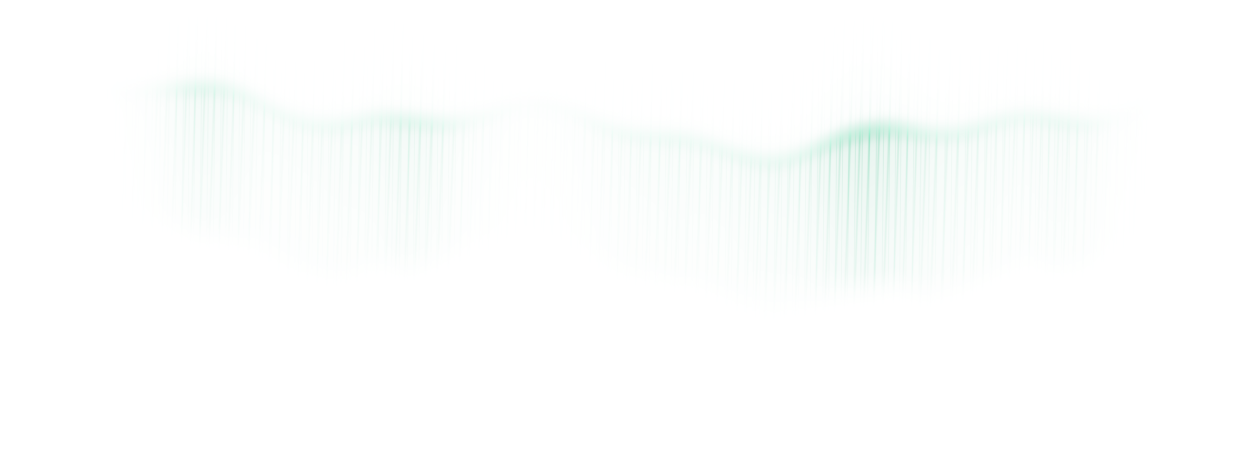
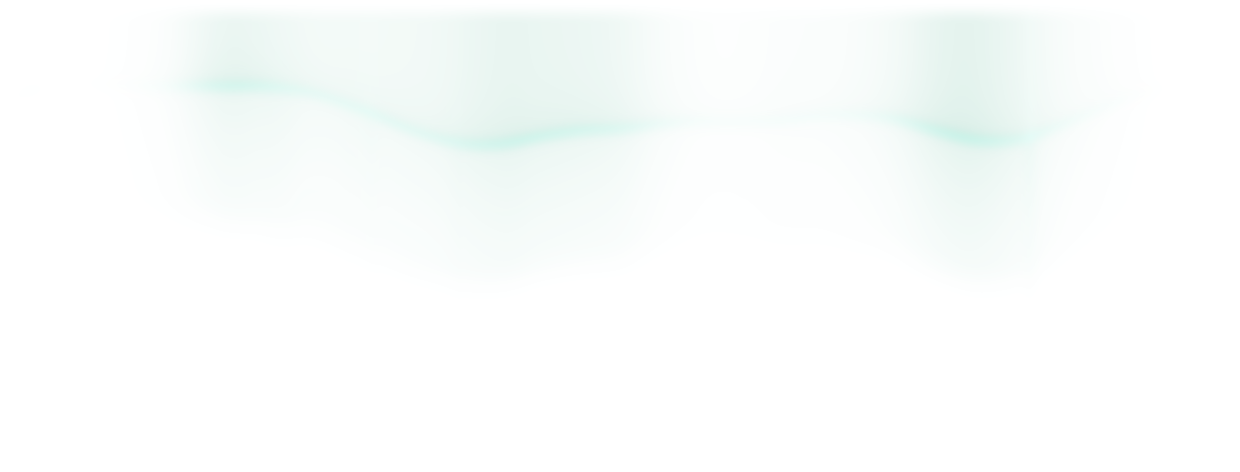
重做極光光幕材質與潮汐場景

Changed region(s): [[0.6435, 0.0297, 0.8274, 0.4746], [0.3677, 0.2373, 0.4903, 0.3263], [0.1839, 0.1483, 0.2452, 0.2076]]

diff --git a/tools/scene_bakers/stars_aurora.py b/tools/scene_bakers/stars_aurora.py
@@ -201,84 +201,83 @@ def generate_aurora_assets(out: Path) -> None:
         (0.205, 0.42, 0.86, 6201, 2.0, 0.13, 0.035),
         (0.255, 0.36, 0.76, 6301, 4.1, 0.15, 0.090),
     )
-    green = _color((72, 211, 139))
-    cyan = _color((69, 174, 184))
-    violet = _color((137, 105, 170))
+    green = _color((64, 224, 148))
+    cyan = _color((56, 185, 205))
+    violet = _color((148, 98, 185))
     for index, (crest_y, ray_length, strength, seed, phase, cyan_base, violet_base) in enumerate(curtain_specs):
-        broad = _periodic_fbm_x(position, period, seed, 4)
-        medium = _periodic_fbm_x(position, period, seed + 31, 11, 3)
-        fine = _periodic_fbm_x(position, period, seed + 53, 29, 3)
+        broad = _periodic_fbm_x(position, period, seed, 3, 3)
+        medium = _periodic_fbm_x(position, period, seed + 31, 7, 3)
+        fine_fold = _periodic_fbm_x(position, period, seed + 53, 13, 2)
+
         fold = (
-            np.sin(unit * np.pi * 2.0 + phase) * 0.038
-            + np.sin(unit * np.pi * 6.0 + phase * 0.7) * 0.025
-            + np.sin(unit * np.pi * 14.0 - phase * 0.4) * 0.013
-            + (broad - 0.5) * 0.075
+            np.sin(unit * np.pi * 2.0 + phase) * 0.045
+            + np.sin(unit * np.pi * 4.0 - phase * 0.8) * 0.028
+            + np.sin(unit * np.pi * 8.0 + phase * 1.3) * 0.015
+            + (broad - 0.5) * 0.080
+            + (medium - 0.5) * 0.035
         )
         crest = height * (crest_y + fold)[None, :]
         distance = y - crest
         positive = np.maximum(distance, 0.0)
         negative = np.maximum(-distance, 0.0)
-        length = height * (
-            ray_length + (broad - 0.5) * 0.13 + (medium - 0.5) * 0.055
+        curtain_length = height * (
+            ray_length + (broad - 0.5) * 0.12 + (medium - 0.5) * 0.05
         )[None, :]
 
-        gate = np.clip((distance + height * 0.012) / (height * 0.035), 0.0, 1.0)
+        crest_glow = np.exp(-((distance) / (height * (0.012 + index * 0.003))) ** 2)
+        upper_fade = np.exp(-negative / (height * 0.045))
+
+        gate = np.clip((distance + height * 0.010) / (height * 0.030), 0.0, 1.0)
         gate = gate * gate * (3.0 - 2.0 * gate)
-        ending = np.clip((length - positive) / (height * 0.10), 0.0, 1.0)
-        ending = ending * ending * (3.0 - 2.0 * ending)
-        cycles = 79 + index * 18
-        thread_phase = (
-            unit[None, :] * np.pi * 2.0 * cycles
-            + (medium[None, :] - 0.5) * 8.0
-            + distance * (0.0085 + index * 0.0012)
-        )
-        threads = (0.5 + 0.5 * np.cos(thread_phase)) ** 10
-        fine_threads = (
-            0.5
-            + 0.5 * np.cos(
-                unit[None, :] * np.pi * 2.0 * (cycles + 53)
-                - (fine[None, :] - 0.5) * 10.0
-                + distance * 0.005
-                + 1.7
-            )
-        ) ** 14
-        striation = 0.15 + threads * 0.51 + fine_threads * 0.34
-        presence = np.clip((broad - 0.17) / 0.69, 0.0, 1.0)[None, :]
-        fold_face = (
-            0.38
-            + 0.62 * (0.5 + 0.5 * np.sin(unit * np.pi * 10.0 + phase)) ** 2
-        )[None, :]
+        veil_decay = np.exp(-positive / (curtain_length * 0.72))
+        veil_cutoff = np.clip((curtain_length - positive) / (height * 0.12), 0.0, 1.0)
+        veil_cutoff = veil_cutoff * veil_cutoff * (3.0 - 2.0 * veil_cutoff)
+        veil = veil_decay * veil_cutoff * (0.45 + medium[None, :] * 0.55)
 
-        edge = np.exp(-(distance / (height * (0.017 + index * 0.002))) ** 2)
-        lower_rays = gate * np.exp(-positive / (length * 0.70)) * ending * striation
-        upper_rays = (1.0 - gate) * np.exp(-negative / (height * 0.085)) * striation
-        veil = gate * np.exp(-positive / (length * 0.92)) * ending
-        veil *= 0.35 + medium[None, :] * 0.65
-        alpha = strength * presence * fold_face * (
-            edge * 0.31 + lower_rays * 0.74 + upper_rays * 0.20 + veil * 0.12
+        fold_face = (
+            0.40
+            + 0.60 * (0.5 + 0.5 * np.sin(unit * np.pi * 6.0 + phase * 1.4 + (broad - 0.5) * 2.5)) ** 2
+        )[None, :]
+        presence = np.clip((broad - 0.12) / 0.76, 0.0, 1.0)[None, :]
+
+        fil_pos = position + np.sin(unit * np.pi * 8.0 + phase) * 100.0
+        fil_noise1 = _periodic_fbm_x(fil_pos, period, seed + 101, 19, 3)
+        fil_noise2 = _periodic_fbm_x(position, period, seed + 203, 31, 2)
+        fil_raw = np.clip((fil_noise1 * 0.6 + fil_noise2 * 0.4 - 0.48) / 0.36, 0.0, 1.0)
+        filaments = (fil_raw ** 3.5)[None, :]
+        fil_len_var = 0.4 + 0.6 * (0.5 + 0.5 * np.sin(unit[None, :] * np.pi * 12.0 + (fine_fold[None, :] - 0.5) * 4.0))
+        filaments_attenuated = filaments * np.exp(-positive / (curtain_length * (0.25 + 0.55 * fil_len_var))) * gate
+
+        alpha_curtain = (
+            crest_glow * 0.38
+            + (1.0 - gate) * upper_fade * 0.25
+            + veil * 0.52
+            + filaments_attenuated * 0.30
         )
+        alpha = strength * presence * fold_face * alpha_curtain
         alpha *= np.clip((height * 0.70 - y) / (height * 0.13), 0.0, 1.0)
         alpha = feather_alpha(np.asarray(np.clip(alpha, 0.0, 0.88), np.float32), padding, 48)
 
-        ray_amount = np.clip(positive / np.maximum(length, 1.0), 0.0, 1.0)
-        cyan_amount = np.clip(cyan_base + fine_threads * 0.08 + (1.0 - ray_amount) * 0.035, 0.0, 0.24)
-        violet_amount = np.clip(
-            violet_base * (0.25 + ray_amount * 0.75) * (0.45 + threads * 0.55),
-            0.0,
-            0.12,
-        )
-        green_amount = 1.0 - cyan_amount - violet_amount
+        rel_y = np.clip(positive / np.maximum(curtain_length, 1.0), 0.0, 1.0)
+        crest_zone = np.clip(1.0 - np.abs(distance) / (height * 0.035), 0.0, 1.0)
+
+        cyan_amount = np.clip(cyan_base + 0.14 * rel_y + filaments * 0.08, 0.0, 0.38)
+        violet_amount = np.clip(violet_base * (1.1 - rel_y * 0.8) + crest_zone * 0.12, 0.0, 0.30)
+        green_amount = np.maximum(0.0, 1.0 - cyan_amount - violet_amount)
+
         rgb = (
             green[None, None, :] * green_amount[..., None]
             + cyan[None, None, :] * cyan_amount[..., None]
             + violet[None, None, :] * violet_amount[..., None]
         )
-        brightness = 0.78 + striation * 0.27 + edge * 0.13
+        brightness = 0.82 + crest_glow * 0.30 + filaments * 0.18
         rgb *= brightness[..., None]
+
         # The runtime wraps this exact view-width span, so close its discrete seam.
         alpha[:, padding + period - 1] = alpha[:, padding]
         rgb[:, padding + period - 1] = rgb[:, padding]
         save_rgba(out / f"aurora_curtain_{index}.png", _rgba(rgb, alpha), True)
+
 
 
 def generate_stars_aurora_assets(out: Path) -> None:

diff --git a/deskbar/ui/scene_weather_museum.py b/deskbar/ui/scene_weather_museum.py
@@ -10,10 +10,16 @@ Includes:
 from __future__ import annotations
 
 import math
+from pathlib import Path
+
 import pygame
 
 from deskbar.ui.scene_common import hash_unit
+from deskbar.ui.scene_assets import SceneAssets, TintRequest
 from deskbar.ui.scene_runtime import SceneFrame
+
+
+SCENE_ASSET_DIR = Path(__file__).resolve().parent.parent / "assets" / "scenes"
 
 
 class GlassRainRenderer:
@@ -325,96 +331,42 @@ class ReverseLightningRenderer:
 
 
 class TidalAuroraRenderer:
-    """Cyan-violet tidal aurora ribbons, flowing halo, and smooth curtains renderer."""
+    """Blue-violet variant of the baked, non-uniform aurora curtains.
 
-    __slots__ = ("_closed", "_overlay")
+    The original implementation tried to approximate volumetric light with
+    runtime polygons.  Pygame's hard alpha edges made those polygons read as
+    coloured ribbons.  The approved Aurora scene already owns a purpose-baked
+    soft light field, so this variant reuses that texture and changes its
+    colour, timing and layering into a slower tidal current.
+    """
+
+    __slots__ = ("_assets",)
 
     def __init__(self) -> None:
-        self._closed = False
-        self._overlay: pygame.Surface | None = None
+        self._assets = SceneAssets(SCENE_ASSET_DIR)
 
     @property
     def decoded_bytes(self) -> int:
-        if self._closed or self._overlay is None:
-            return 0
-        return self._overlay.get_width() * self._overlay.get_height() * 4
+        return self._assets.decoded_bytes
 
     def render(self, panel: pygame.Surface, frame: SceneFrame) -> None:
-        if self._closed:
-            return
-        w, h = panel.get_size()
-        if self._overlay is None or self._overlay.get_size() != (w, h):
-            self._overlay = pygame.Surface((w, h), pygame.SRCALPHA)
-
-        # Base background (deep violet cyan space)
-        panel.fill((10, 18, 36))
-        self._overlay.fill((0, 0, 0, 0))
-
-        seed = frame.day_seed
-        t = frame.t
-
-        # 1. Twinkling background stars (30 stars)
-        for s in range(30):
-            sx = int(hash_unit(s, seed, 91) * w)
-            sy = int(hash_unit(s, seed, 93) * (h * 0.7))
-            twinkle = 0.5 + 0.5 * math.sin(t * 1.5 + s * 1.3)
-            star_alpha = int(50 + twinkle * 150)
-            pygame.draw.circle(panel, (190, 220, 210, star_alpha), (sx, sy), 1)
-
-        # 2. Ambient flowing aurora halo in upper sky (流動 halo)
-        for halo_idx in range(3):
-            halo_y = h * (0.18 + halo_idx * 0.12) + math.sin(t * 0.2 + halo_idx) * 15.0
-            halo_rx = int(w * 0.45)
-            halo_ry = int(h * 0.18)
-            halo_cx = w * 0.5 + math.sin(t * 0.15 + halo_idx * 2.0) * (w * 0.2)
-            rect = pygame.Rect(round(halo_cx - halo_rx), round(halo_y - halo_ry), halo_rx * 2, halo_ry * 2)
-            color = (140, 70, 210, 24) if halo_idx % 2 == 0 else (40, 190, 160, 28)
-            pygame.draw.ellipse(self._overlay, color, rect)
-
-        # 3. Multi-layered cyan-green & purple aurora curtains (青綠/紫色簾幕)
-        curtain_configs = [
-            (0.20, (40, 220, 170, 35), (140, 80, 230, 28), 22.0, 65),
-            (0.28, (60, 240, 190, 40), (160, 90, 245, 32), 26.0, 75),
-            (0.36, (50, 190, 220, 32), (120, 70, 200, 25), 18.0, 55),
-        ]
-
-        for base_ratio, c_mint, c_purple, wave_amp, curtain_h in curtain_configs:
-            base_y = h * base_ratio
-            t_wave = t * 0.16
-
-            # Build smooth upper and lower polygon boundary points across screen width
-            top_pts = []
-            bot_pts = []
-            for x in range(-10, w + 14, 8):
-                edge_fade = math.sin(max(0.0, min(1.0, (x + 10) / (w + 20))) * math.pi)
-                y_t = base_y + math.sin(x * 0.005 + t_wave) * wave_amp
-                y_t += math.cos(x * 0.012 - t_wave * 0.7) * (wave_amp * 0.4)
-
-                y_b = y_t + curtain_h * (0.6 + 0.4 * edge_fade)
-                top_pts.append((x, round(y_t)))
-                bot_pts.append((x, round(y_b)))
-
-            poly_pts = top_pts + list(reversed(bot_pts))
-
-            # Draw mint cyan curtain body polygon
-            if len(poly_pts) > 3:
-                pygame.draw.polygon(self._overlay, c_mint, poly_pts)
-
-            # Draw overlapping violet secondary curtain polygon slightly offset
-            v_poly = [(px, py + 12) for px, py in top_pts] + [(px, py + 12) for px, py in reversed(bot_pts)]
-            if len(v_poly) > 3:
-                pygame.draw.polygon(self._overlay, c_purple, v_poly)
-
-            # Overlay fine vertical aurora rays (柔和細絲簾幕 rays)
-            for x in range(0, w, 6):
-                edge_fade = math.sin((x / w) * math.pi)
-                alpha_ray = int((25 + math.sin(t * 0.6 + x * 0.01) * 10) * edge_fade)
-                if alpha_ray > 2:
-                    y_t = base_y + math.sin(x * 0.005 + t_wave) * wave_amp + math.cos(x * 0.012 - t_wave * 0.7) * (wave_amp * 0.4)
-                    pygame.draw.line(self._overlay, (180, 255, 235, alpha_ray), (x, round(y_t)), (x, round(y_t + curtain_h)), 1)
-
-        panel.blit(self._overlay, (0, 0))
+        panel.blit(self._assets.load("aurora_base_night"), (-(1240 - 1118) // 2, 0))
+        tile_area = pygame.Rect((1240 - 1118) // 2, 0, 1118, 472)
+        layers = (
+            ("aurora_curtain_2", (205, 82, 255), 136, 4.6, 0.13, 21.0, 0.0),
+            ("aurora_curtain_1", (92, 238, 255), 154, 6.8, 0.46, 18.0, 1.7),
+            ("aurora_curtain_0", (145, 170, 255), 124, 3.5, 0.76, 24.0, 3.4),
+        )
+        width = panel.get_width()
+        for name, tint, base_alpha, speed, start, breathe_period, phase in layers:
+            curtain = self._assets.tinted(TintRequest(name, tint, None))
+            breathe = math.sin(frame.t * math.tau / breathe_period + phase)
+            curtain.set_alpha(round(base_alpha + breathe * 10.0))
+            vertical = round(math.sin(frame.t * math.tau / (28.0 + speed) + phase) * 3.0)
+            left = -round((frame.t * speed + start * 1118) % 1118)
+            while left < width:
+                panel.blit(curtain, (left, vertical), tile_area)
+                left += 1118
 
     def close(self) -> None:
-        self._closed = True
-        self._overlay = None
+        self._assets.close()
